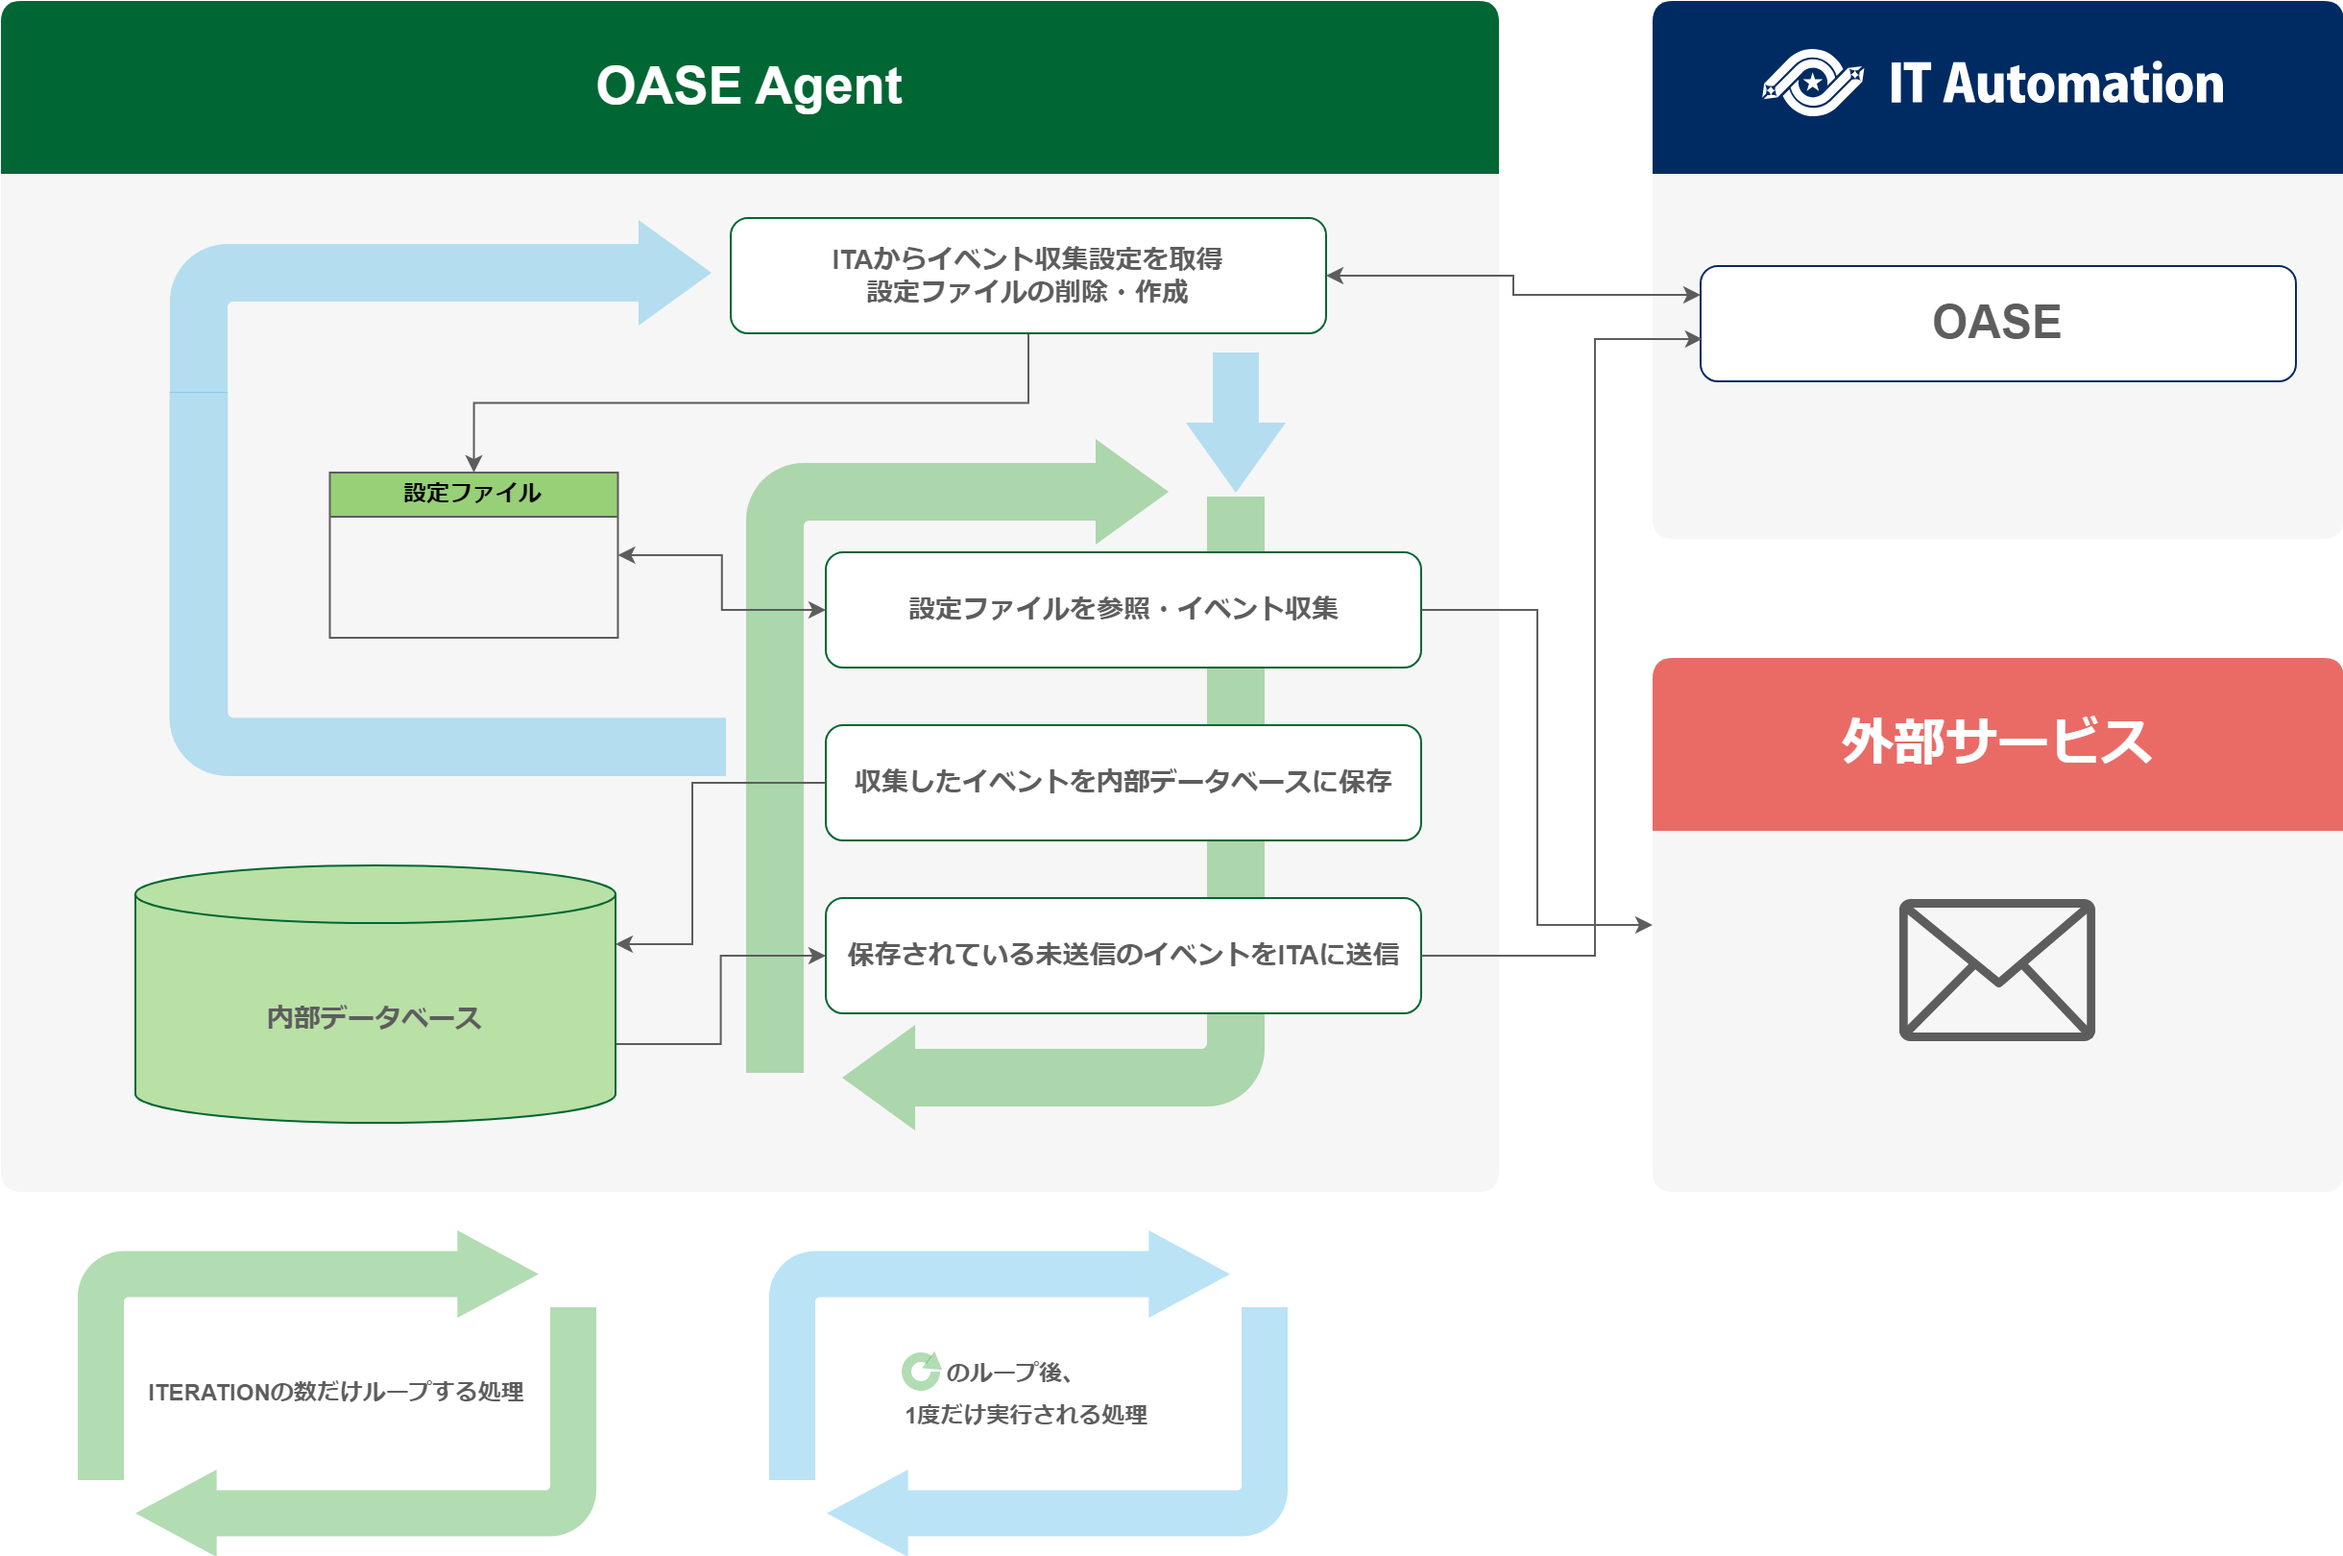
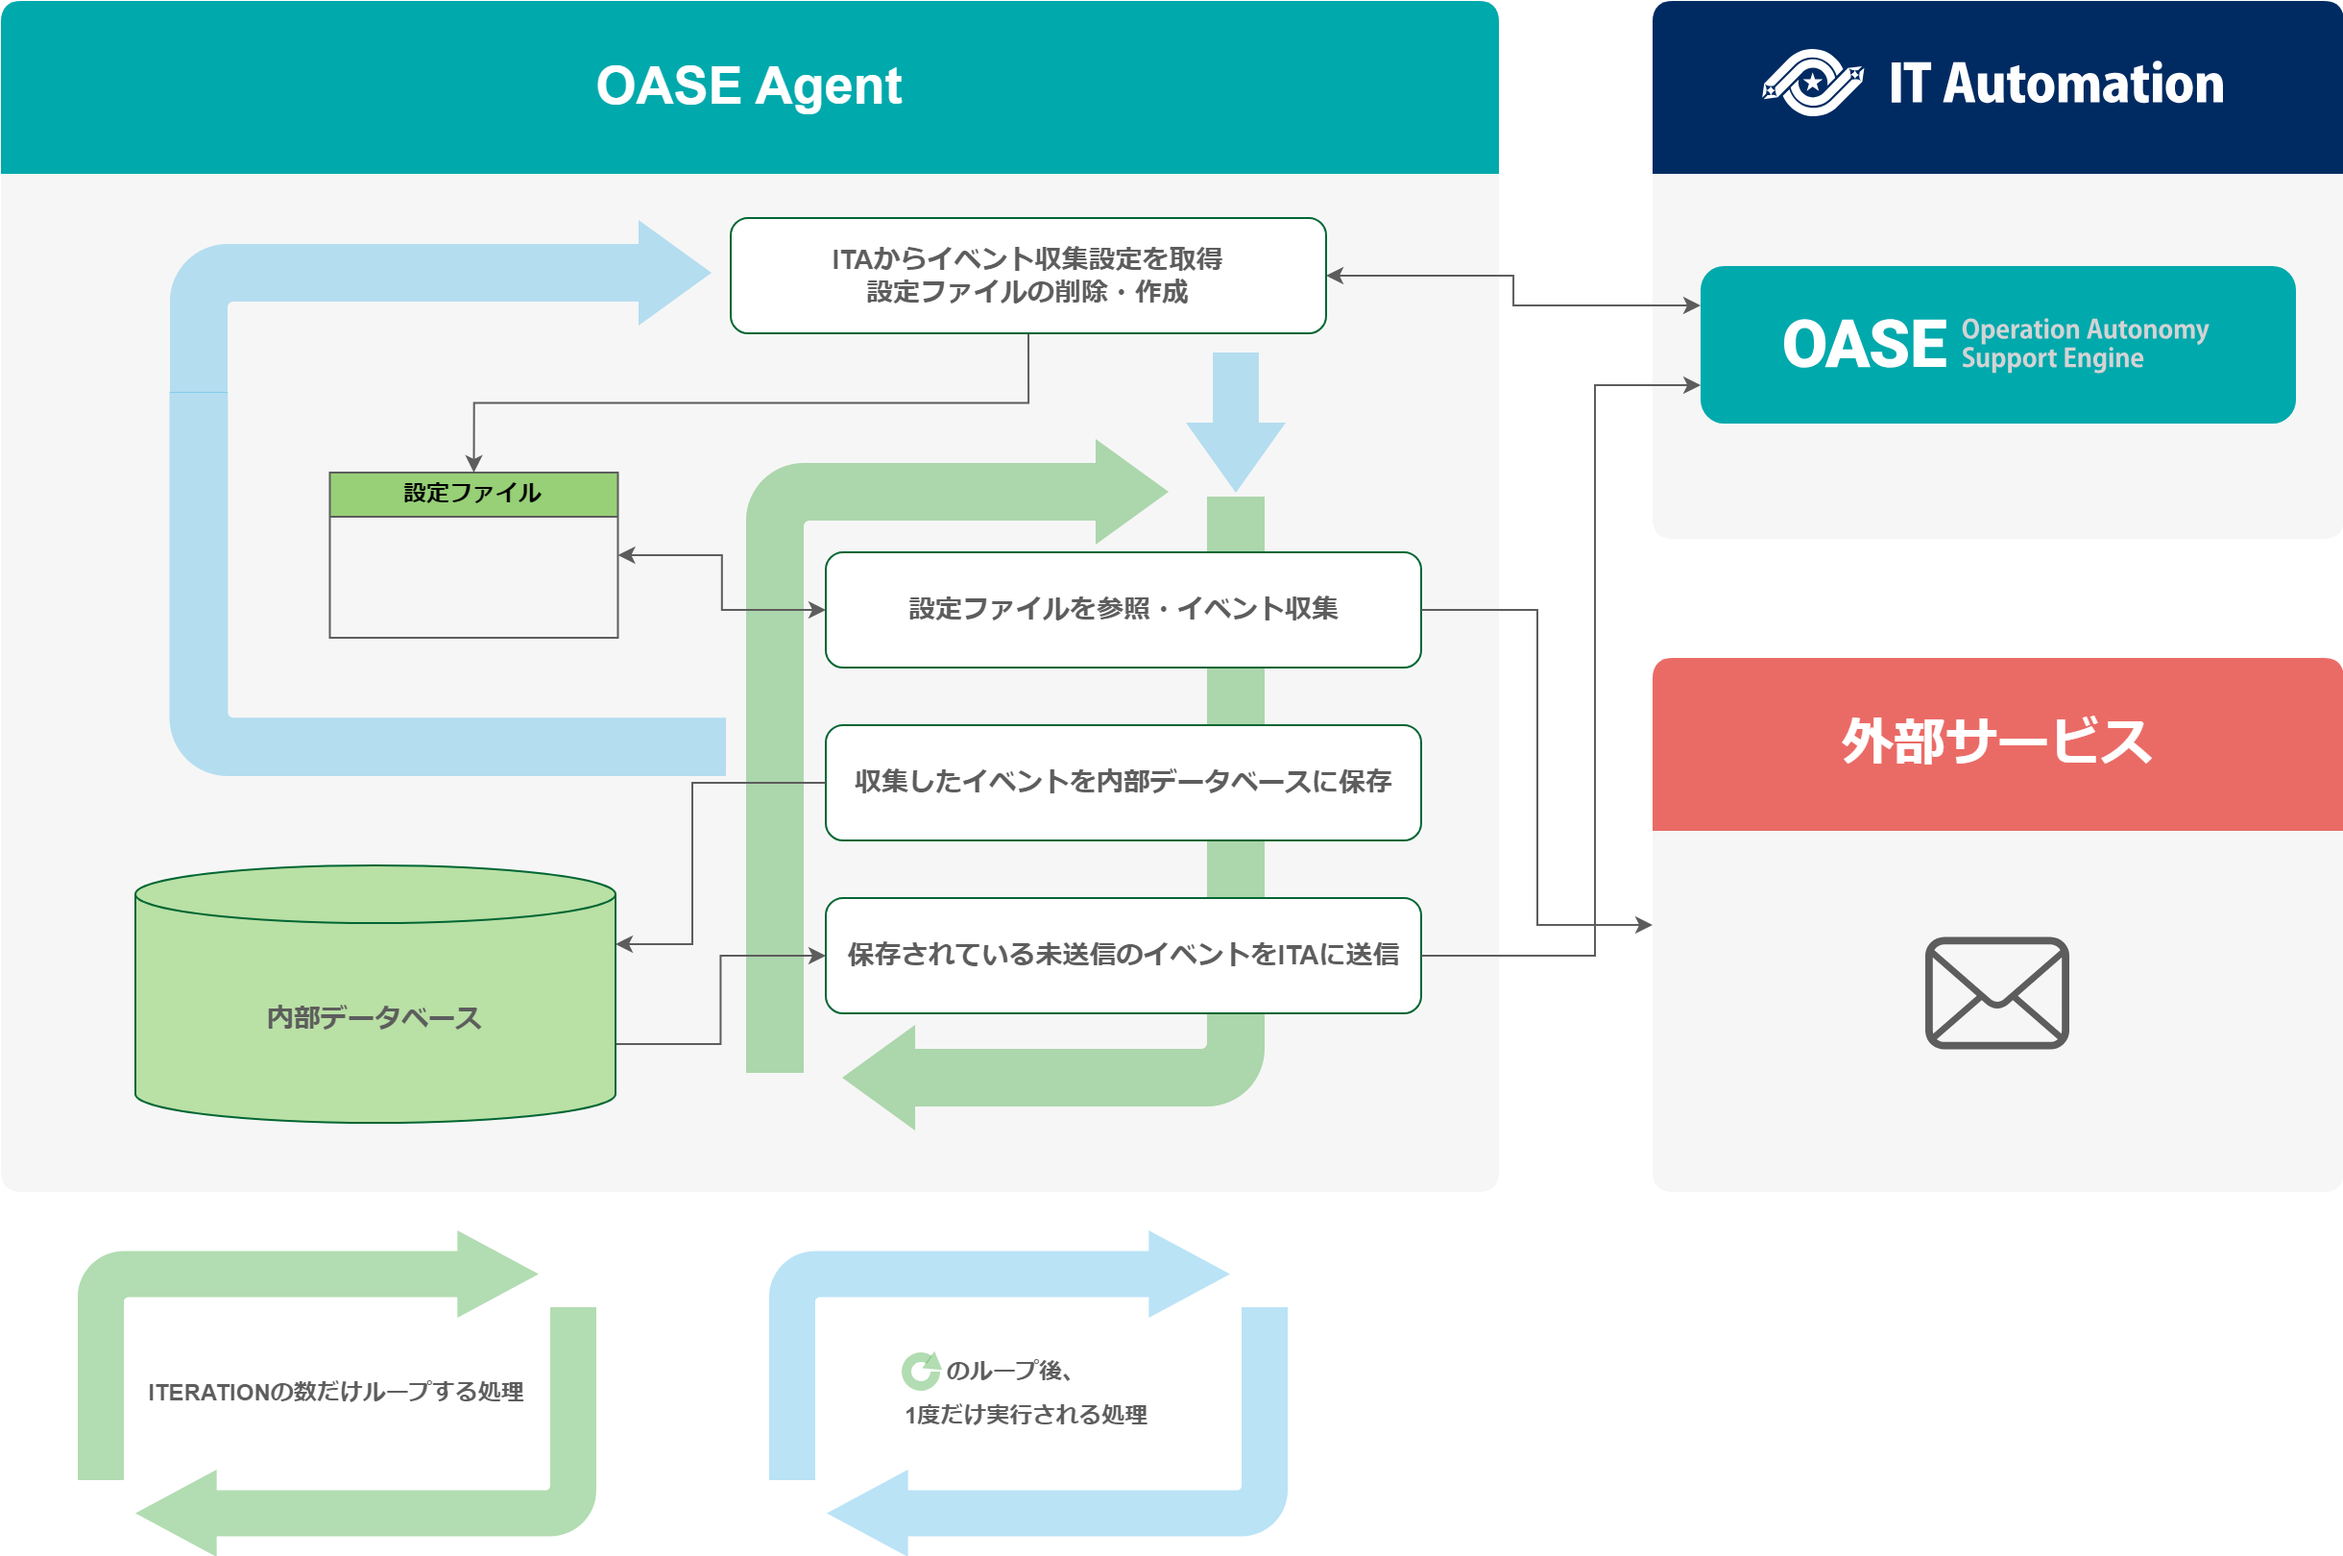
OASE概要図等修正

diff --git a/src/ja/2.3/installation/oase_agent.rst b/src/ja/2.3/installation/oase_agent.rst
@@ -155,6 +155,8 @@ OASE Agent
 パラメータ一覧
 ==============
 
+| Exastro OASE Agentの仕様と一部のパラメータの関連については、:ref:`oase_agent_flow` にて説明しています。
+
 .. list-table:: 
  :widths: 5, 7, 1, 5
  :header-rows: 1
@@ -221,6 +223,8 @@ OASE Agent
    - 無し
  * - EXASTRO_USERNAME
    - Exastro IT Automation で作成した ユーザー名
+
+     ※ユーザーのロールが、OASE - イベント - イベント履歴メニューをメンテナンス可能である必要があります。
    - 可
    - admin
  * - EXASTRO_PASSWORD
